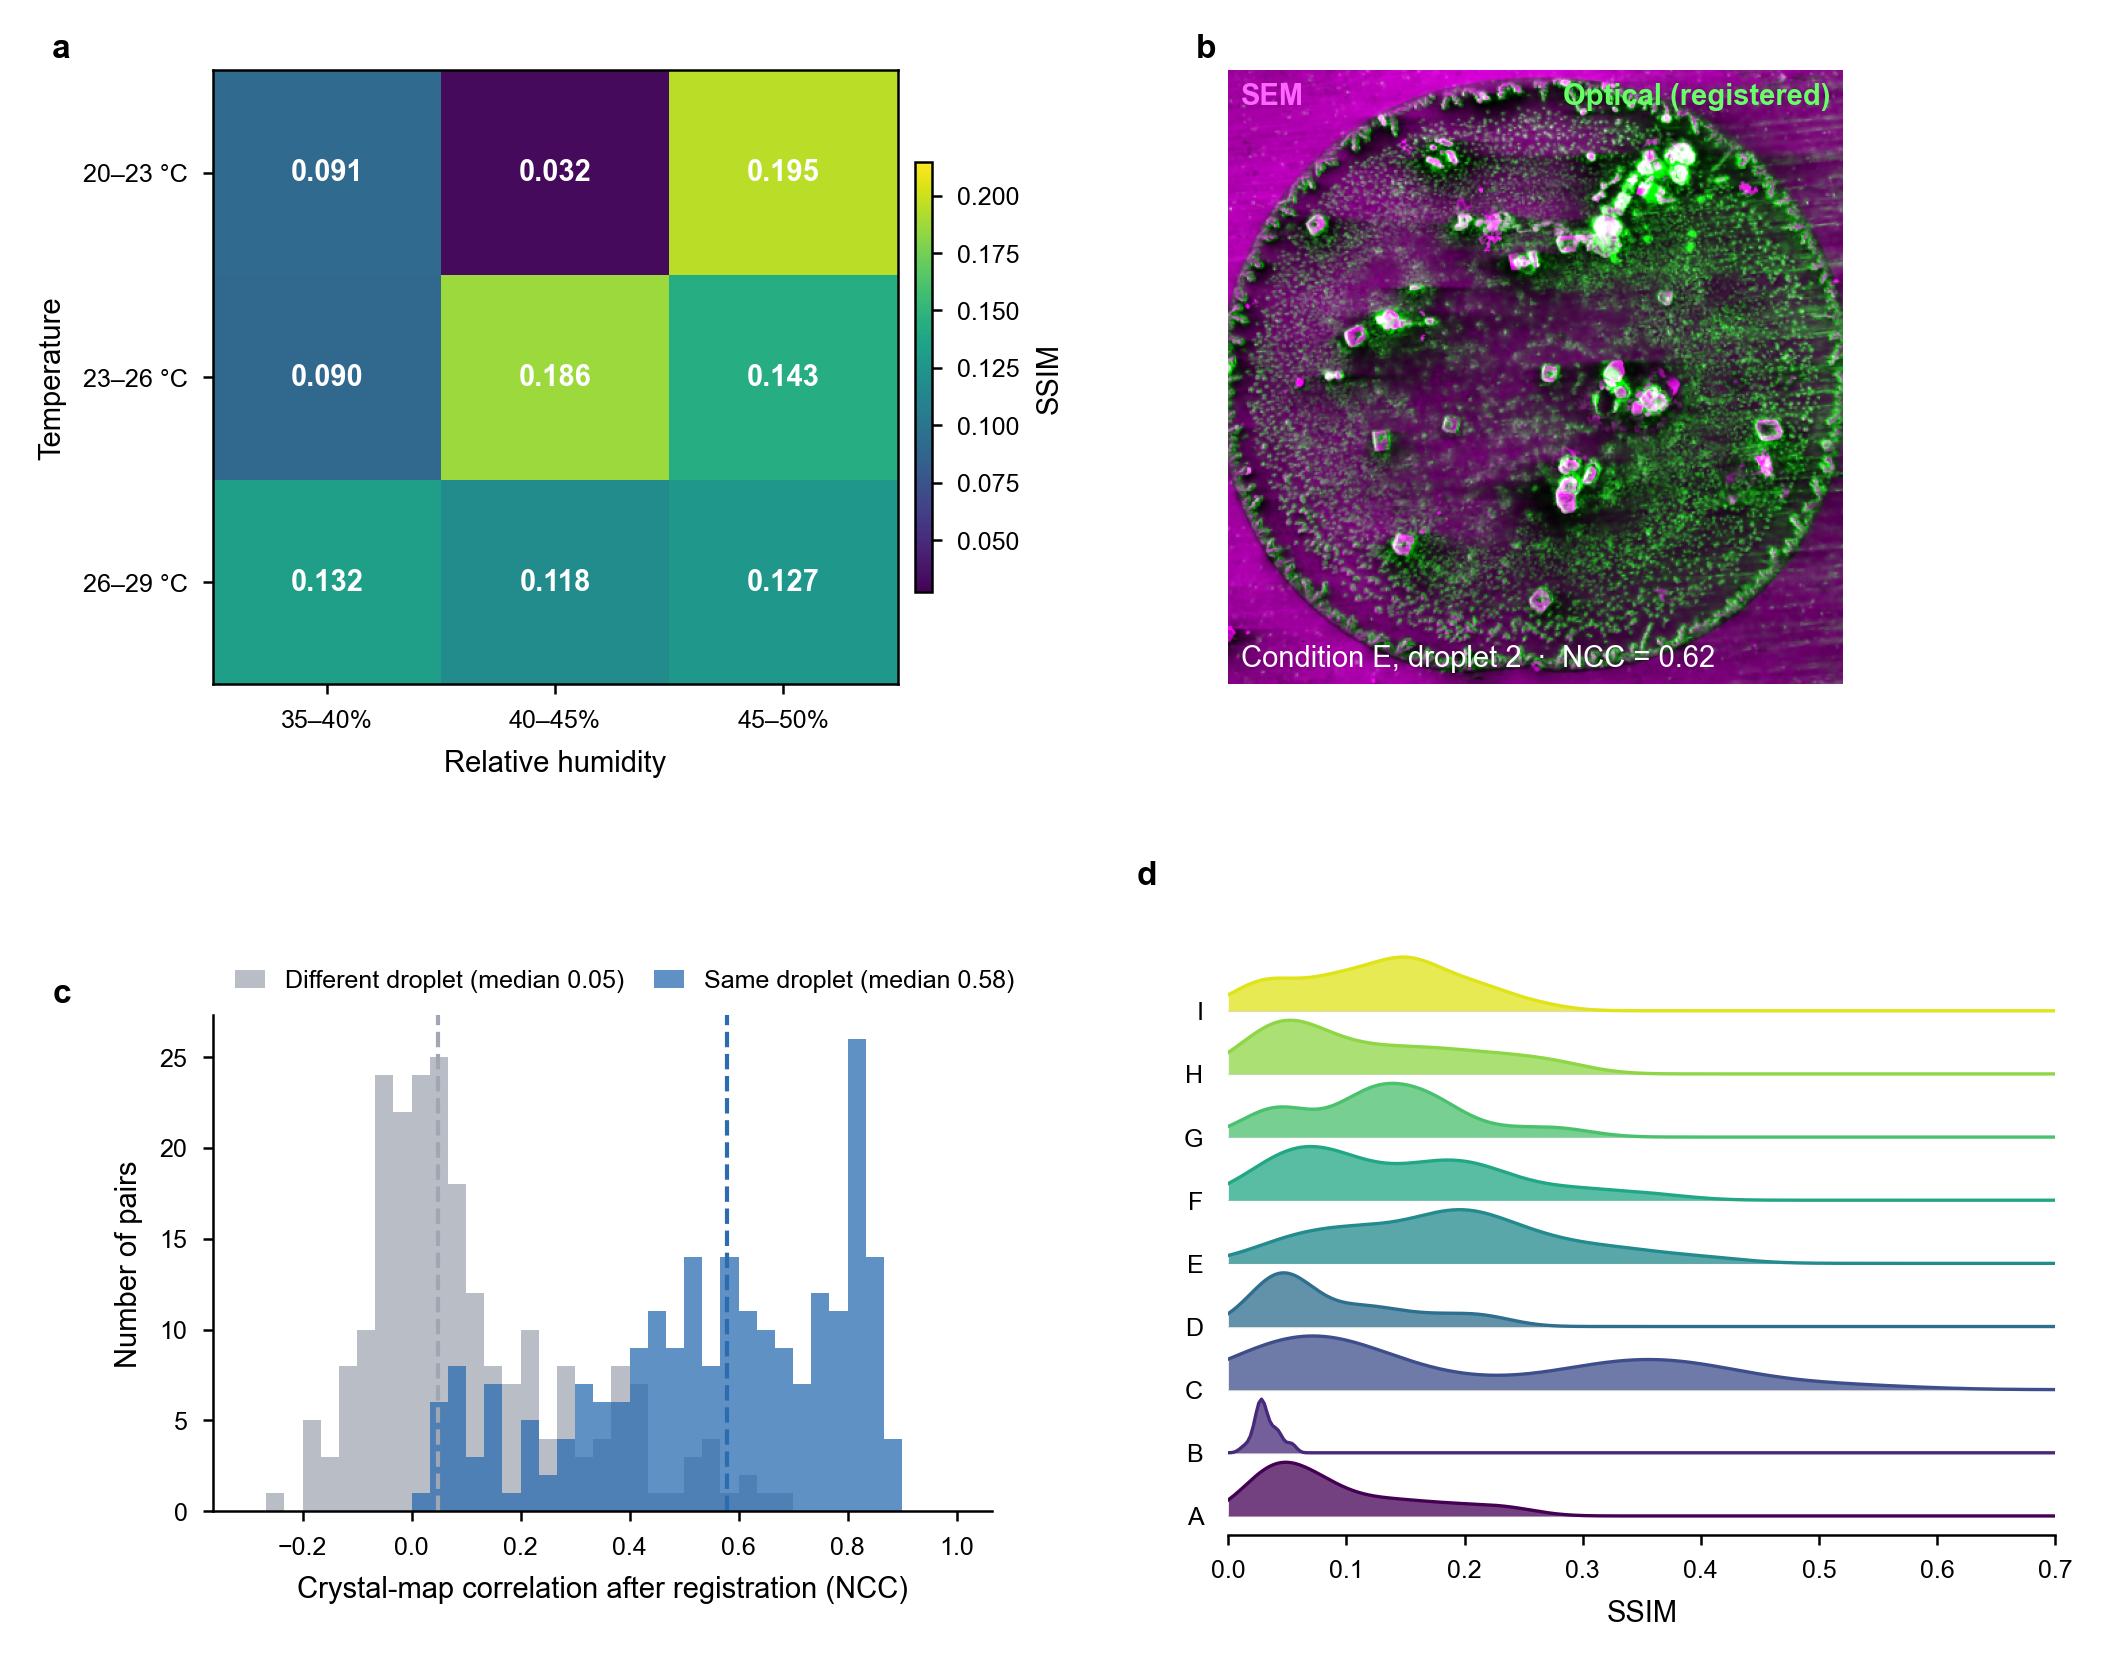
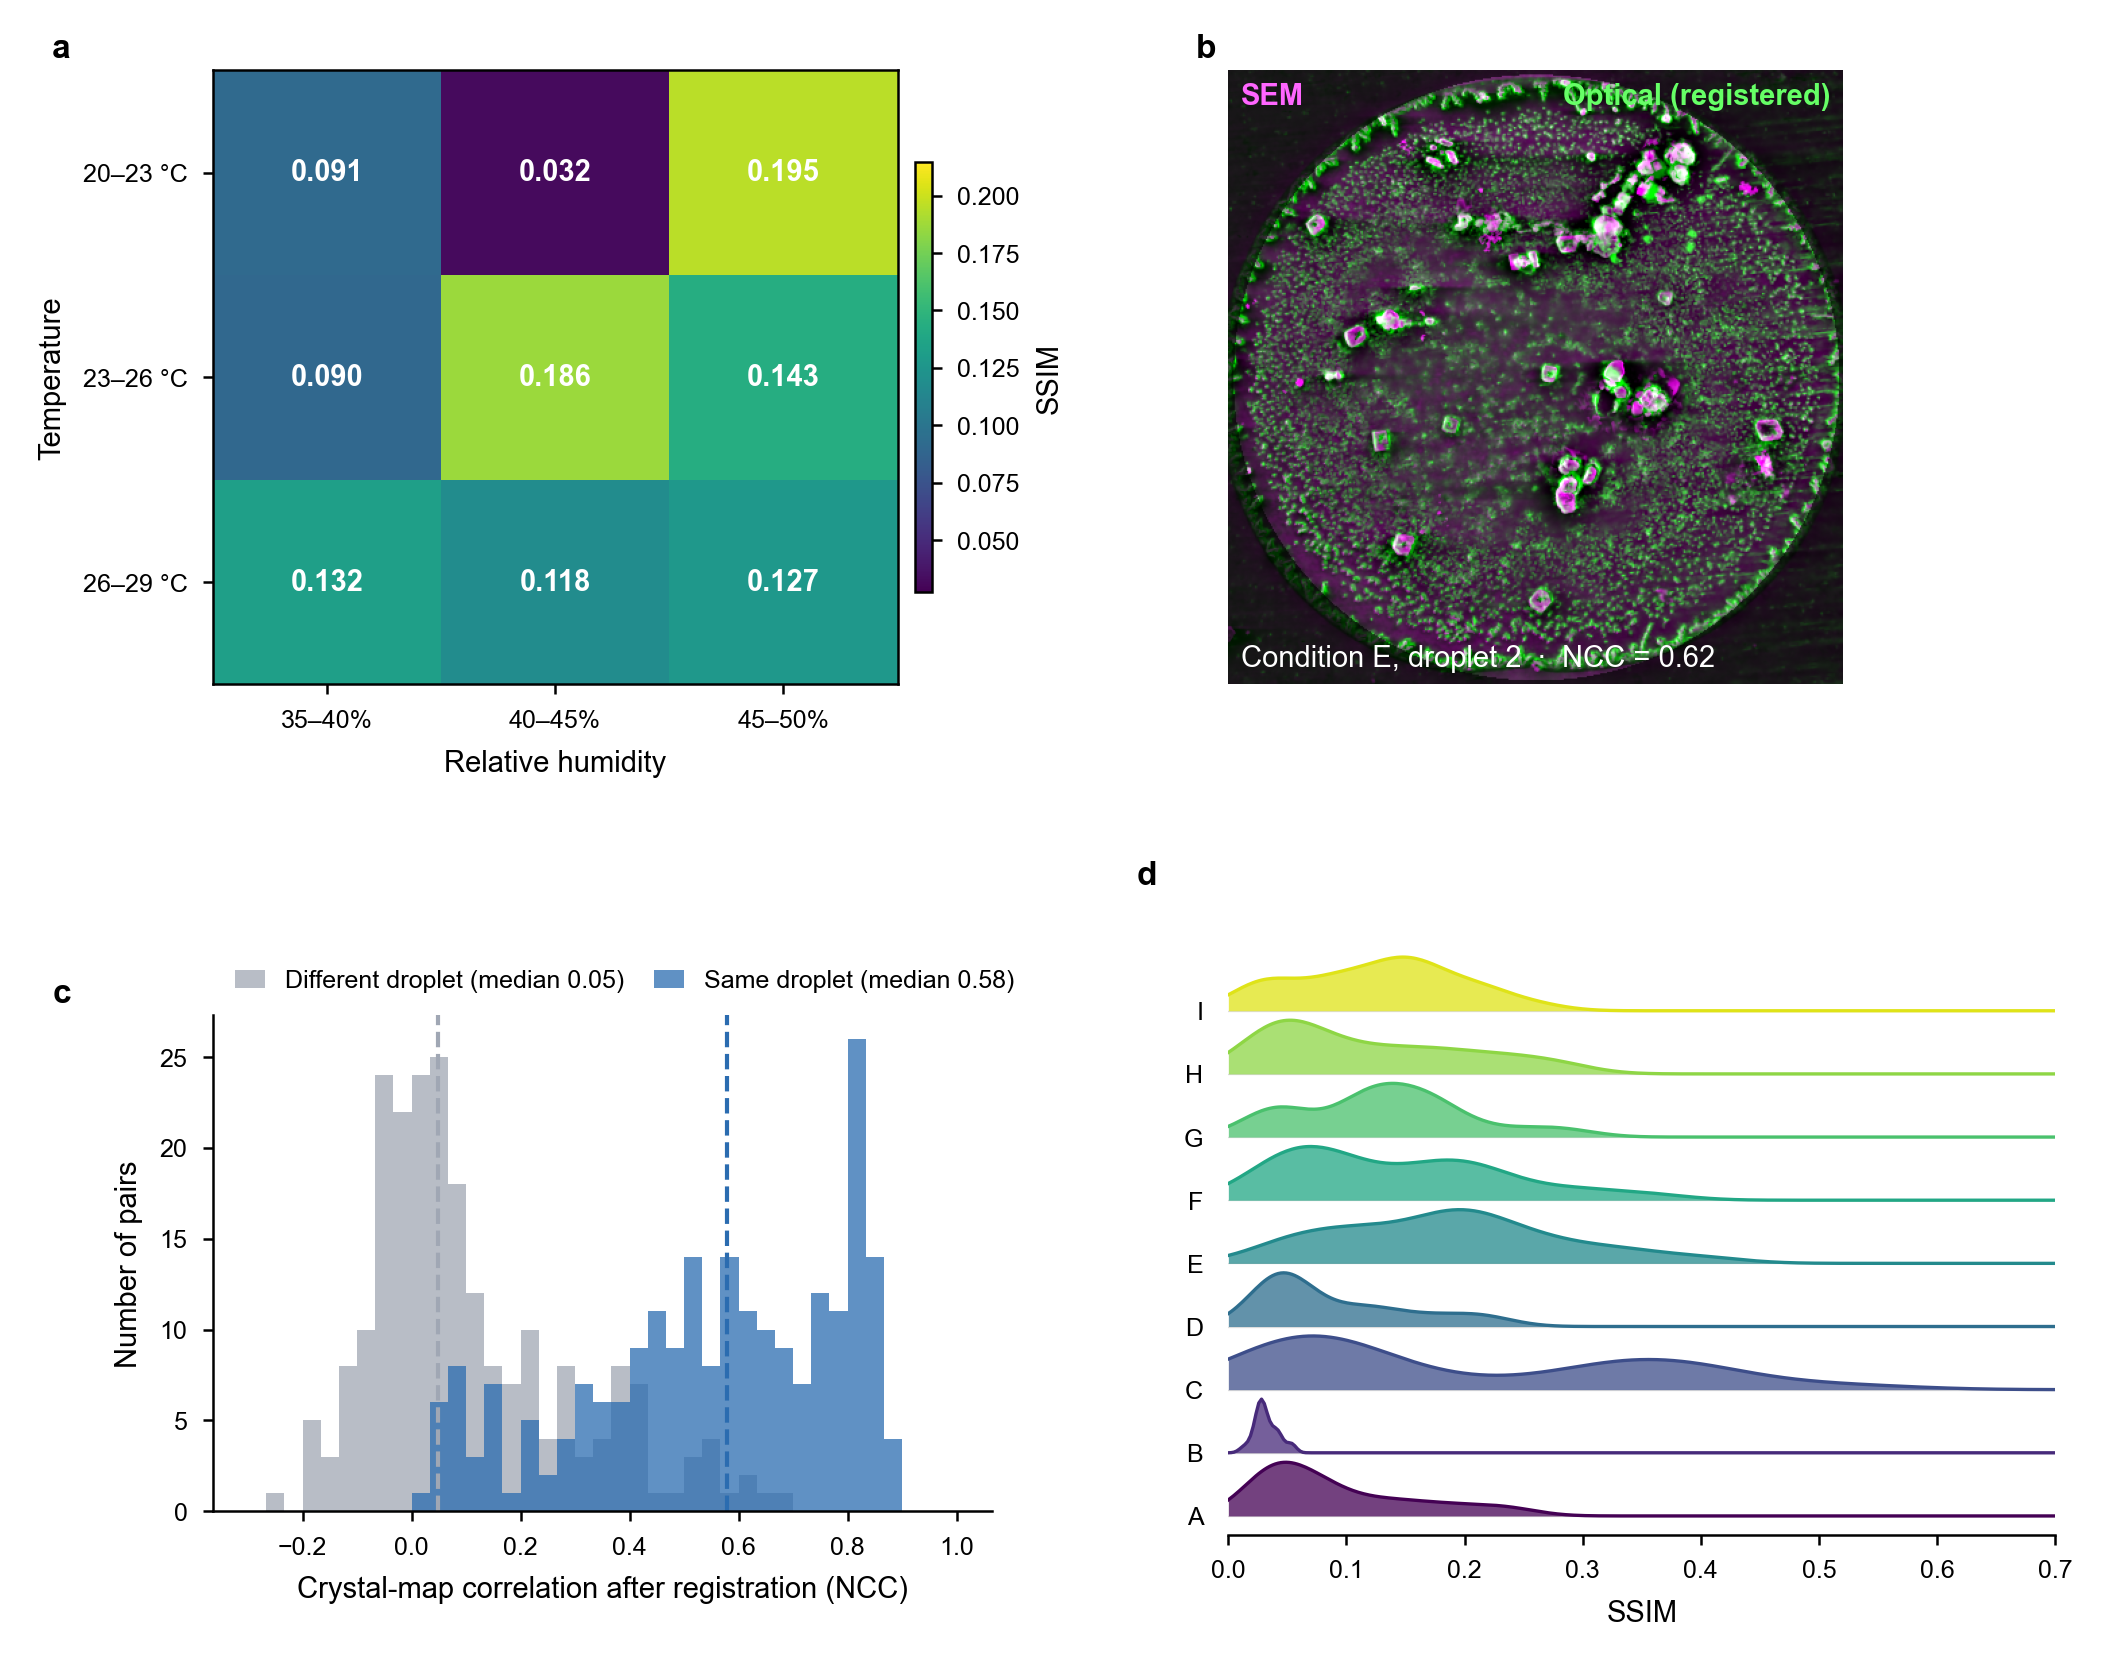
Figure 4b: high-pass both modalities before overlay so colour reflects feature agreement, not illumination

Changed region(s): [[0.5591, 0.0309, 0.8696, 0.4319]]

diff --git a/figures_src/fig4_ssim.py b/figures_src/fig4_ssim.py
@@ -26,6 +26,7 @@ HUMIDS = ["35–40", "40–45", "45–50"]
 REGISTRATION = S.ROOT / "experiment" / "cross_modal_registration.csv"
 NULL = S.ROOT / "experiment" / "registration_null.csv"
 EXAMPLE = ("E", 2)                     # pair shown in panel b (same deposit as Fig. 2)
+HIGHPASS_SIGMA = 12                    # px at 640-px working width; removes illumination gradients
 MATCHED_COLOR, SHUFFLED_COLOR = "#2B6CB0", "#A0A7B4"
 
 
@@ -47,7 +48,15 @@ def registered_overlay(cond, i):
     pad = 6
     y0, y1 = max(ys.min() - pad, 0), min(ys.max() + pad, h)
     x0, x1 = max(xs.min() - pad, 0), min(xs.max() + pad, w)
-    a, b = stretch(sem, m), stretch(opt_r, m)
+    def detail(g):
+        """Remove large-scale illumination (Gaussian high-pass) and scale to 0-1 inside the droplet."""
+        hp = g - cv2.GaussianBlur(g, (0, 0), HIGHPASS_SIGMA)
+        lo, hi = np.percentile(hp[m], [2, 99.5])
+        return np.clip((hp - lo) / (hi - lo + 1e-9), 0, 1)
+    a, b = detail(sem), detail(opt_r)
+    outside = ~cv2.dilate(m.astype(np.uint8), np.ones((5, 5), np.uint8)).astype(bool)
+    a[outside] *= 0.35
+    b[outside] *= 0.35
     return np.dstack([a, b, a])[y0:y1, x0:x1], r.final_ncc
 
 
